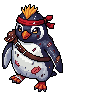
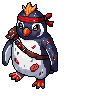
feat(art): walk the three heroes in 8 directions with 8 frames
Jack, Bob and Lucia now use walking-8-frames templates on their
weaponless bases (5 drawn + 3 mirrored directions). Jack frames that
still showed the machete were cleaned with edit_image. pack-heroes
anchors each animation on the lowest foot across its south frames so
the hero no longer floats mid-step.

Claude-Session: https://claude.ai/code/session_01TiFwkJjrQotWJiscTegNM2

Changed region(s): [[0.0, 0.0, 0.6562, 0.9688]]

diff --git a/scripts/pack-heroes.ts b/scripts/pack-heroes.ts
@@ -2,8 +2,9 @@
 // Input:  art-src/pixellab/anim/<key>/<anim>/<direction>/<nn>.png
 // Output: public/assets/{heroes,enemies}/<key>.png + <key>.json (Phaser JSON Hash) with frame names
 //         `<anim>.<dir>.<nn>` (dir ∈ s, se, e, ne, n) and meta.anims[anim] = { frames, anchorY, dirs }.
-// anchorY is where the feet are (0..1 of the frame height), measured on the south frame 0, because
-// template (96 px) and v3 (132 px) animations come on different canvases.
+// anchorY is where the feet are (0..1 of the frame height): the lowest opaque row over every south
+// frame of the animation (frame 0 of a walk can be mid-step with a raised foot, which made the hero
+// float), per animation because template (96 px) and v3 (132 px) animations use different canvases.
 // Usage: bun scripts/pack-heroes.ts [key ...]
 
 import { existsSync, mkdirSync, readdirSync, writeFileSync } from 'node:fs';
@@ -72,10 +73,14 @@ async function packKey(key: string): Promise<void> {
 				});
 			}
 		}
-		const feet = await feetY(join(dir, anim, 'south', '00.png'));
+		let anchorY = 0;
+		for (const f of readdirSync(join(dir, anim, 'south')).filter((n) => n.endsWith('.png'))) {
+			const feet = await feetY(join(dir, anim, 'south', f));
+			anchorY = Math.max(anchorY, feet.y / feet.h);
+		}
 		anims[anim] = {
 			frames,
-			anchorY: feet.y / feet.h,
+			anchorY,
 			dirs: dirs.map((d) => SHORT[d] as string),
 			size,
 		};

diff --git a/docs/art-prompts.md b/docs/art-prompts.md
@@ -81,3 +81,10 @@ Tamanho final aceito como gerado: **~88 px de altura num canvas de 96** (P-05 at
 - **Decorações** (`create_image_pixflux`, `isometric: true`, 48×48, carro 64×64, 1 geração cada): `deco.antarctica.0–2` (cristais de gelo, rocha com neve, caixote com mão de sangue), `deco.station.0–2` (barris de óleo, contêiner laranja, corrente de âncora + cabeço), `deco.ruins.0–2` (carro queimado, entulho, caçamba tombada). Atlas por bioma: `public/assets/atlas/{antarctica,station,ruins}.png`.
 - **Walks** (template, 1 geração/direção): `enemy.zombiePenguin`, `enemy.bloaterPenguin`, `enemy.zombieScientist` com `scary-walk` (8 frames × 5 direções); Bob `walking-8-frames`. Observação: cada lote de animação template deixa às vezes um job "animation" preso em 95% que ocupa slot (os frames já estão prontos).
 - Lote seguinte: Lucia `walking-8-frames` (5 direções); zombieMedic `scary-walk` só no sul por enquanto (demais direções com a rotação estática); zombieSeal `walk-8-frames` (template de quadrúpede) em geração; Jack sem arma por referência v3 reenviado (`6babb578-a611-40f8-8c4b-0c9ae55b91f6`). Lote pausado a pedido do usuário para estabilizar o main.
+
+## 2026-09-27 — Walk dos 3 heróis (8 direções, 8 frames)
+
+- Template `walking-8-frames` (1 geração/direção) em s/se/e/ne/n; sw/w/nw espelhados no motor. Bob (`ae2516ed…`) e Lucia (`452419ff…`) direto dos estados sem arma.
+- **Jack**: o estado `1a3e6a0e…` ("unarmed") ainda desenha o machete em algumas direções; os frames com lâmina foram limpos com `edit_image` (4 frames por chamada, ~20 gerações cada): sul 0–7, nordeste 0–7, leste 4–7 e norte 0–7 (6 chamadas, ~120 gerações). Os originais com lâmina ficam em `art-src/pixellab/anim-raw/hero.jack/`. O personagem v3 limpo por referência (`6babb578…`) segue na fila do PixelLab; se sair, substitui essa base.
+- `pack-heroes`: o `anchorY` agora é a linha mais baixa entre todos os frames do sul de cada animação (antes era só o frame 0, que no walk é meio passo e fazia o herói "flutuar").
+- Verificado no navegador andando nas 8 direções com os 3 heróis, sem erros de console.
